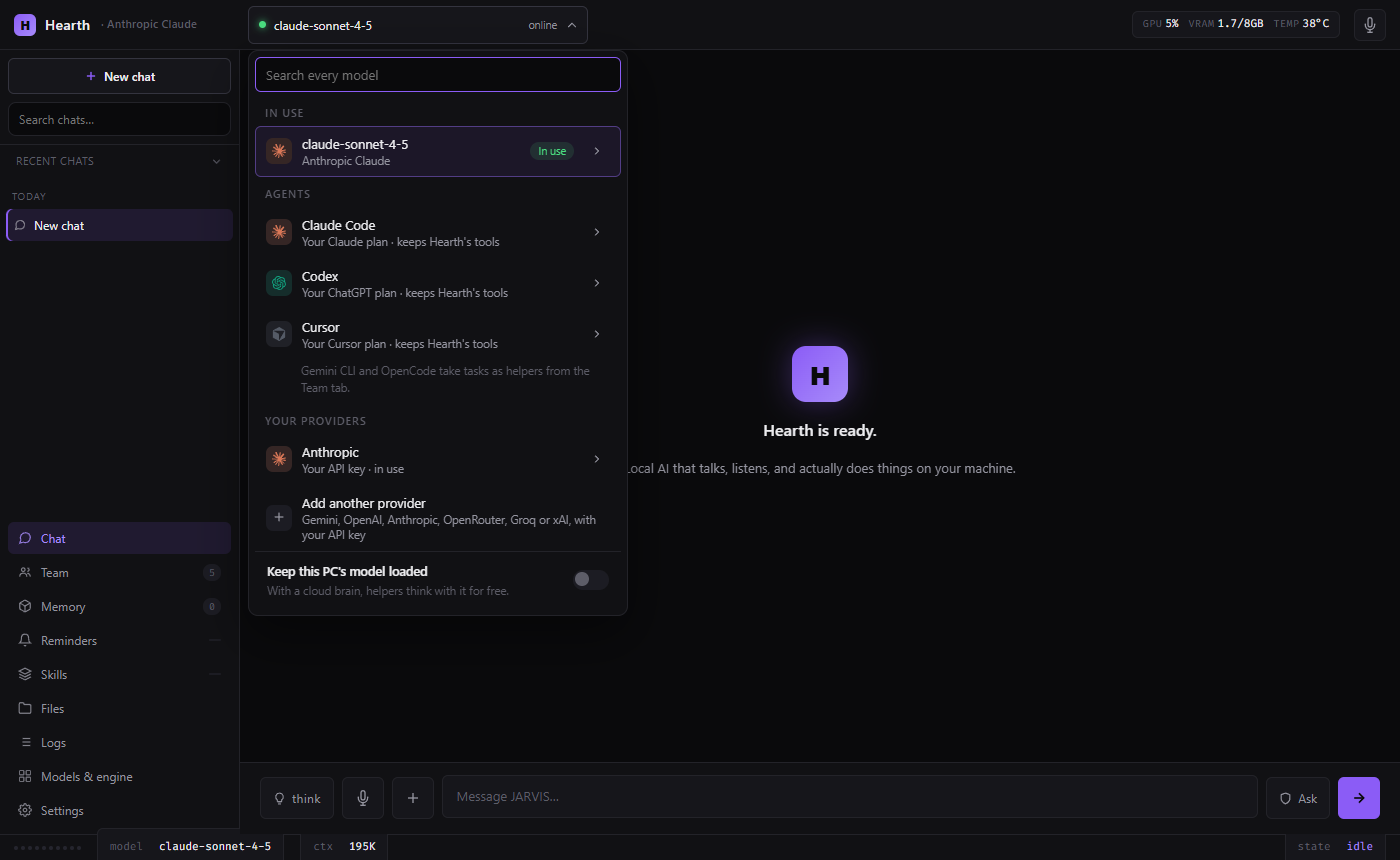
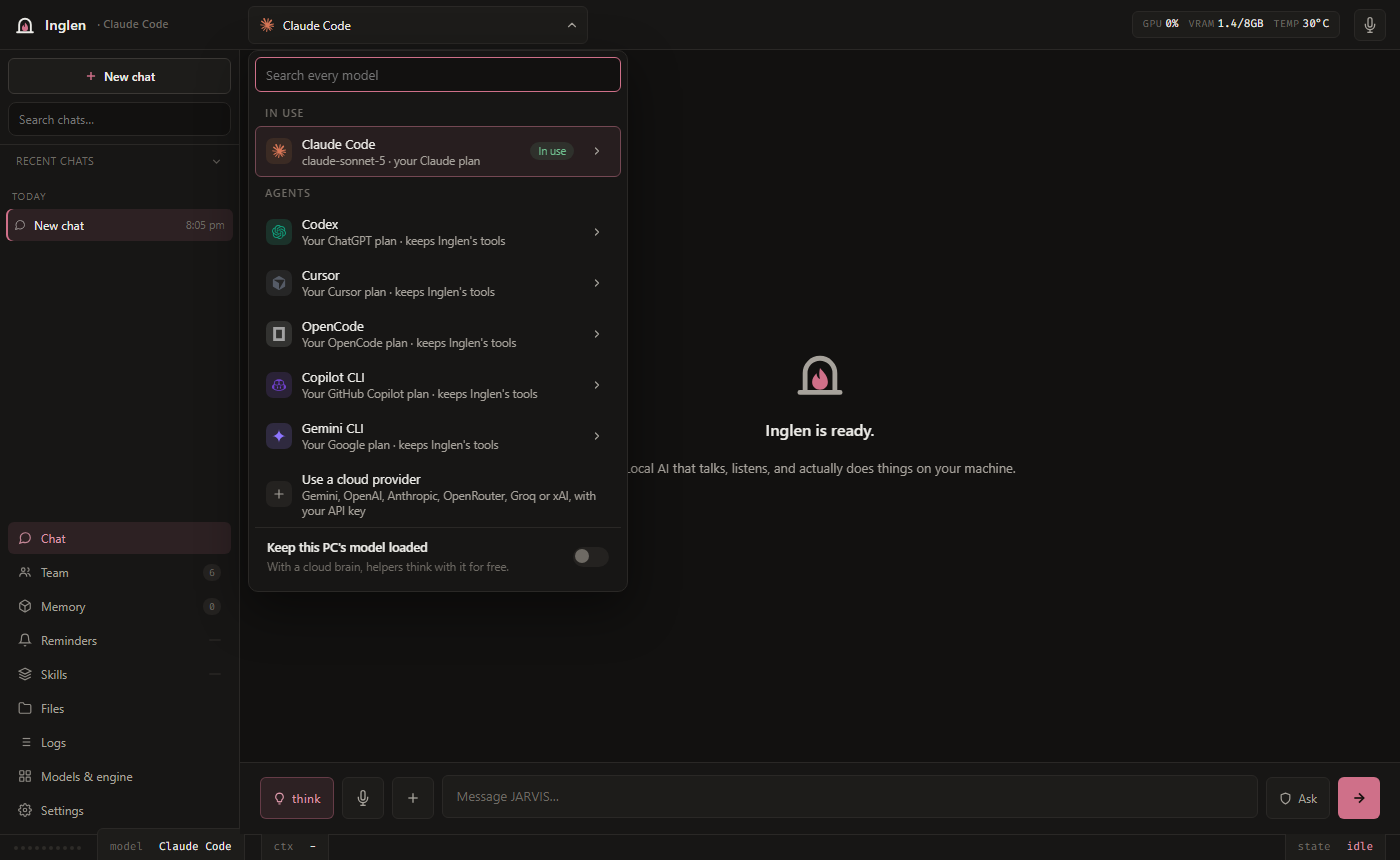
README pictures retaken as the app is now: Inglen's name and mark, the agents the model menu lists today

diff --git a/README.md b/README.md
@@ -21,7 +21,7 @@
 </p>
 
 <p align="center">
-  <img src="docs/media/team-room.png" alt="The Team room, with JARVIS and six helpers at their desks, two on Codex, one on Claude Code, one on Claude Haiku, with one helper's steps open on the right" width="900">
+  <img src="docs/media/team-room.png" alt="The Team room, with JARVIS by the fire and six helpers at their desks, two on Codex, one on Claude Code and three of Inglen's own, each saying what it is doing" width="900">
 </p>
 
 ---
@@ -43,7 +43,7 @@ Inglen is the framework (it was called Hearth until v0.7.6, and the files and se
 <table>
 <tr>
 <td width="50%" align="center"><strong>It does the thing, on your desktop</strong><br><img src="docs/media/hero.gif" alt="Inglen creating a folder, writing a file, and opening it in Notepad from one request" width="420"></td>
-<td width="50%" align="center"><strong>One menu for every brain</strong><br><img src="docs/media/brains.png" alt="The model menu with Claude Code, Codex, Cursor and a saved Anthropic key" width="420"></td>
+<td width="50%" align="center"><strong>One menu for every brain</strong><br><img src="docs/media/brains.png" alt="The model menu with Claude Code in use and Codex, Cursor, OpenCode, Copilot CLI and Gemini CLI below it" width="420"></td>
 </tr>
 <tr>
 <td width="50%" align="center"><strong>A memory that tidies itself</strong><br><img src="docs/media/memory.gif" alt="Inglen's memory browser" width="420"></td>
